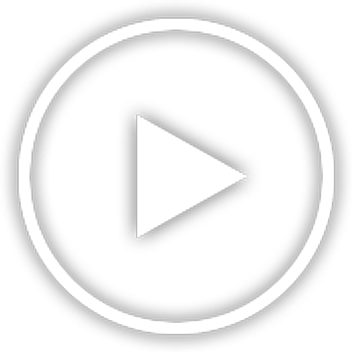
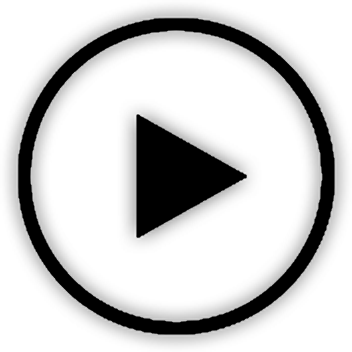
Add files via upload

Changed region(s): [[0.0312, 0.0312, 0.9688, 0.9688], [0.375, 0.3125, 0.7188, 0.6875]]

diff --git a/bms/2.js b/bms/2.js
@@ -6,15 +6,24 @@ BMS.Constants = {
     YT_VIDEO: `<div class="preview-pane embed-responsive embed-responsive-16by9">
     <iframe class="embed-responsive-item" src="{src}" allowfullscreen></iframe>
 </div>`,
-    TILE: `
-    <div class="col-xs-12 col-sm-6 col-md-4 col-lg-3 video-thumbnail" data-id="{id}">
-    <a href="#" class="d-block mb-4 h-100 text-decoration-none">
-        <img class="img-fluid img-thumbnail" src="{src}" alt="{alt}">
-        <div class="text-info">{name}</div>
-        <div class="overlay">
-            <img class="play-icon mx-auto d-block" src="play-icon.png" alt="Play {alt}">
+    TILE: `<div class="col-xs-12 col-sm-6 col-md-4 col-lg-3 d-block mb-4 h-100 video-thumbnail" data-id="{id}">
+    <img src="{src}" alt="{alt}" class="img-fluid img-thumbnail">
+    <div class="overlay">
+        <div class="release-date">
+            {releaseDate}
         </div>
-    </a>
+        <div class="rating">
+            <div>
+                👍 {percent}%
+            </div>
+            <div>
+                {votes} votes
+            </div>
+        </div>
+        <img class="play-icon mx-auto d-block" src="play-icon.png" alt="Play {alt}">
+
+    </div>
+    <div class="text-info">{name}</div>
 </div>`,
 };
 BMS.languages = [];
@@ -152,6 +161,10 @@ BMS.loadTiles = function () {
             tile = tile.split("{alt}").join(name);
             tile = tile.split("{name}").join(name);
             tile = tile.split("{id}").join(key);
+            tile = tile.split("{releaseDate}").join(showDate);
+            tile = tile.split("{percent}").join(likePerc);
+            tile = tile.split("{votes}").join(likeCount);
+
 
             $("#thumbnails").append(tile);
         });

diff --git a/bms/main.css b/bms/main.css
@@ -23,29 +23,79 @@
 .play-icon {
   height: 50px;
   width: 50px;
-  margin-top: 120px;
+  cursor: pointer;
+  margin-top: 45%;
+}
+
+#scroll-top {
+  display: none;
+  position: fixed;
+  bottom: 20px;
+  right: 30px;
+  z-index: 99;
+  cursor: pointer;
+  padding: 15px;
+  border-radius: 10px;
+  font-size: 18px;
+  color: rgb(109, 109, 109);
+}
+
+.preview-pane {
+  margin-bottom: 10px;
+}
+
+/* overlay */
+.video-thumbnail {
+  position: relative;
   cursor: pointer;
 }
 
-.video-thumbnail a .overlay {
-  position: absolute;
-  top: 0;
-  left: 0;
-  width: 100%;
-  height: 100%;
-  background: rgba(0, 0, 0, 0.13);
-  opacity: 0;
-  transition: opacity 500ms ease-in-out;
-}
-
-.video-thumbnail a:hover .overlay {
+.img-thumbnail {
   opacity: 1;
+  display: block;
+  width: 100%;
+  height: auto;
+  transition: 0.5s ease;
+  backface-visibility: hidden;
 }
 
-.overlay span {
+.overlay {
+  transition: 0.5s ease;
+  opacity: 0;
   position: absolute;
   top: 50%;
   left: 50%;
   transform: translate(-50%, -50%);
+  -ms-transform: translate(-50%, -50%);
+  text-align: center;
+  height: 100%;
+  width: 100%;
+}
+
+.video-thumbnail:hover .img-thumbnail {
+  opacity: 0.3;
+}
+
+.video-thumbnail:hover .overlay {
+  opacity: 1;
+}
+
+.release-date {
+  background-color: #4caf50;
   color: #fff;
+  border-radius: 4px;
+  padding: 2px 5px;
+  max-width: 100px;
+  text-align: right;
+  float: left;
+}
+
+.rating {
+  background-color: #1f2533;
+  color: #fff;
+  border-radius: 4px;
+  padding: 2px 5px;
+  max-width: 100px;
+  text-align: right;
+  float: right;
 }

diff --git a/bms/2.html b/bms/2.html
@@ -61,6 +61,34 @@
     <script src="//stackpath.bootstrapcdn.com/bootstrap/4.3.1/js/bootstrap.min.js""></script>
     <script src="//cdnjs.cloudflare.com/ajax/libs/bootstrap-multiselect/0.9.13/js/bootstrap-multiselect.js"> </script>
         <script src="2.js"></script>
+    <button onclick="topFunction()" id="scroll-top" title="Go to top" class="btn btn-light">▲</button>
+    <script>
+        //Get the button:
+        let scrollTopButton = document.getElementById("scroll-top");
+
+        window.onscroll = function () { scrollFunction() };
+
+        function scrollFunction() {
+            if (document.body.scrollTop > 20 || document.documentElement.scrollTop > 20) {
+                scrollTopButton.style.display = "block";
+            } else {
+                scrollTopButton.style.display = "none";
+            }
+        }
+
+        function topFunction() {
+            window.scrollBy({
+                top: 0,
+                left: 0,
+                behavior: 'smooth'
+            });
+            window.scroll({
+                top: 0,
+                left: 0,
+                behavior: 'smooth'
+            });
+        }
+    </script>
 </body>
 
 </html>

diff --git a/bms/index.html b/bms/index.html
@@ -53,7 +53,7 @@
                 <div class="card">
                     <div class="card-body">
                         <h5 class="card-title">Submission 2</h5>
-                        <p class="card-text">MOvie trailer site to view thumbnails and trailers of latest movies.</p>
+                        <p class="card-text">Movie trailer site to view thumbnails and trailers of latest movies.</p>
                         <a href="2" class="card-link">View Output</a>
                         <a href="https://github.com/thenikhilk/thenikhilk.github.io/blob/master/bms/2.js"
                             class="card-link" target="_blank">View Source Code</a>
@@ -61,7 +61,6 @@
                 </div>
             </div>
         </div>
-    </div>
     </div>
     <script src="https://code.jquery.com/jquery-3.3.1.slim.min.js"></script>
     <script src="https://cdnjs.cloudflare.com/ajax/libs/popper.js/1.14.7/umd/popper.min.js"></script>
